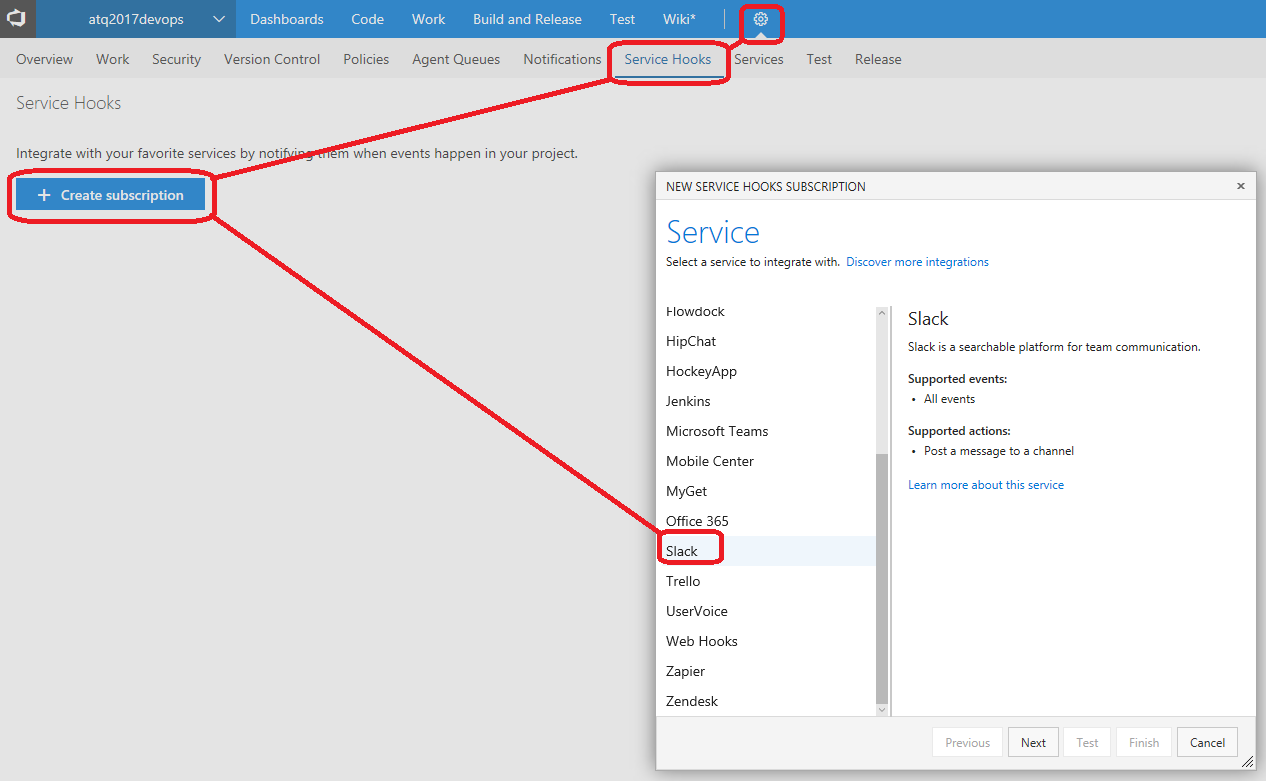
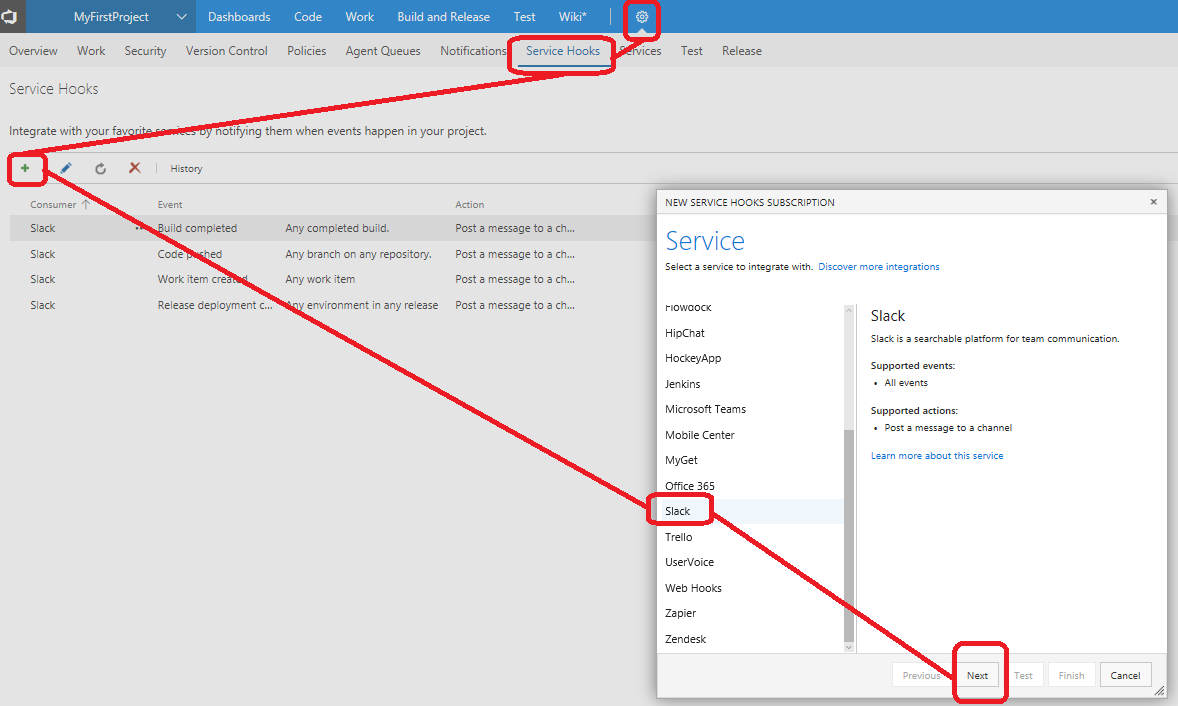
Finalize the Source control lab.

Changed region(s): [[0.3056, 0.187, 1.0, 0.9972], [0.0, 0.0, 0.7029, 0.4674], [0.275, 0.4674, 0.3056, 0.4986]]

diff --git a/docs/Lab 1 - Source control/README.md b/docs/Lab 1 - Source control/README.md
@@ -4,7 +4,7 @@ Previous lab: [Introduction](../Introduction/README.md)
 
 Duration: 15 min
 
-The goal of this lab is to setup a [Git source control with VSTS](https://docs.microsoft.com/en-us/vsts/git/overview) for a given application. 
+The goal of this lab is to setup a Git source control with VSTS by importing an existing GitHub repository having a sample ASP.NET Core web application. 
 
 Best practices highlighted:
 
@@ -20,44 +20,46 @@ You will go through 3 main sections in this lab:
 
 ## Import existing Git repository
 
-0. It's better to open a new web browser instance in Incognito, Private or InPrivate mode to avoid any signed-in session conflict.
+0. Open a new web browser instance in Incognito, Private or InPrivate mode to avoid any signed-in session conflict.
 1. Go to your VSTS account `https://<yourvstsaccount>.visualstudio.com` and open your existing empty project (default: "MyFirstProject", otherwise create a new one).
-2. Navigate to the "Code" tab
-3. Use the [Import into an existing empty repository](https://docs.microsoft.com/en-us/vsts/git/import-git-repository#import-into-an-existing-empty-repo) feature by hitting the "Import" button like illustrated on the image below.
+2. Navigate to the **Code** tab
+3. Use the "Import into an existing empty repository" feature by hitting the **Import** button like illustrated on the image below.
 
 ![VSTSCode - Import GitHub Repository](./imgs/VSTSCode-ImportGitHubRepository.PNG)
 
-4. Set the fields "Source type" to `Git` and "Clone URL" to `https://github.com/mathieu-benoit/DevOpsOnAzureLab.git` and click on "Import".
+4. Set the fields **Source type** to `Git` and **Clone URL** to `https://github.com/mathieu-benoit/DevOpsOnAzureLab.git` and click on **Import**.
 
 ## Setup branch policies
 
-5. Once the repository imported with the previous step, go to the "Code" tab and navigate to the "Branch policies" feature of the "master" branch like illustrated below:
+5. Once the repository imported with the previous step, go to the **Code** tab and navigate to the **Branch policies** feature of the `master` branch like illustrated below:
 
 ![VSTSCode - Go To Branch Policies](./imgs/VSTSCode-GoTo-BranchPolicies.PNG)
 
-6. Enable "Protect this branch" and then enable "Check for linked work items" and "Check for comment resolution" as well. Then, click on the "Save changes" toolbar button at the top of this page.
+6. Enable **Protect this branch** and then enable **Check for linked work items** and **Check for comment resolution** as well.
 
 ![VSTSCode - Setup Branch Policies](./imgs/VSTSCode-Setup-BranchPolicies.PNG)
 
+7. Then, click on the **Save changes** toolbar button at the top of this page.
+
 ## Setup Slack notification for "Pull Request created"
 
-7. Ensure you are already logged in your Slack account for this lab - `https://<youraccount>.slack.com`
-8. Go to this new app configuration link: https://atq-qc-2017.slack.com/apps/new/A0F81FPF0-visual-studio-team-services, type the `#code` channel and click on "Add Visual Studio Integration".
+8. Sign-in with your Slack account for this lab - `https://<youraccount>.slack.com`. *For the Agile Tour Quebec 2017, check out your sticker*.
+9. Go to this new app configuration link: `https://atq-qc-2017.slack.com/apps/new/A0F81FPF0-visual-studio-team-services`, type the `#code` channel and click on the **Add Visual Studio Integration** button.
 
 ![Slack - Add Visual Studio Integration - Code Pushed](./imgs/Slack-AddVisualStudioIntegration-CodePushed.PNG)
 
-9. Once the result page is displayed ("New integration added!"),  copy the "WebHook URL" field value `https://hooks.slack.com/services/...` to be used with the next steps. 
+10. Once the result page is displayed ("New integration added!"),  copy the **WebHook URL** field value `https://hooks.slack.com/services/...` to be used with the next steps. 
 
-10. Go to the "Service Hooks" of the "Admin" page of your VSTS project and from there click on the "Create subscription" button like illustrated below.
+11. Go to the **Service Hooks** of the **Admin** page of your VSTS project and from there click on the **Create a new subscription** button like illustrated below.
 
 ![ServiceHooks - Notification To Slack - Setup](./imgs/ServiceHooks-NotificationToSlack-Setup.PNG)
 
-11. On the next pages, select "Pull request created" for the "Trigger on this type of event" and let the default "Filters", Then click on "Next" to paste there the "Slack Webhook URL" value "https://hooks.slack.com/services/..." you copied from the Slack configuration we did earlier. Finally, click on "Finish" to see the new associated Service Hook entry:
+12. On the next pages, select **Pull request created** for the **Trigger on this type of event** and let the default **Filters**, then click on **Next** to paste there the **Slack Webhook URL** value `https://hooks.slack.com/services/...` you copied from the Slack configuration we did earlier. Finally, click on **Finish** to see the new associated Service Hook entry:
 
 ![ServiceHooks - Pull Request Created Notification To Slack - Added](./imgs/ServiceHooks-PullRequestCreatedNotificationToSlack-Added.PNG)
 
-(Optional) You could repeat the actions to setup the Slack notifications for other actions from VSTS like for example: Build completed, Release deployment completed, Work item created, Code pushed, etc.
+(Optional) You could repeat the actions to setup the Slack notifications for other actions from VSTS like for example: Build completed, Release deployment completed, Work item created, Code pushed, etc. *For the Agile Tour Quebec 2017, these 4 other Slack notifications are already in place*.
 
 You are now all set for this lab. All these concepts will be used and illustrated with the next labs.
 
-Next lab: [Lab 02 - Continuous integration](../Lab%202%20-%20Continuous%20integration/README.md)
+Next lab: [Lab 2 - Continuous Integration](../Lab%202%20-%20Continuous%20Integration/README.md)
